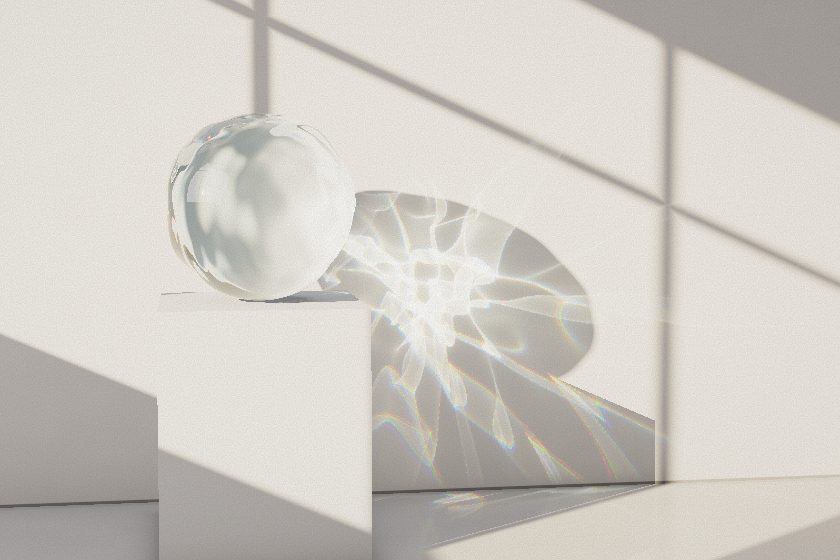
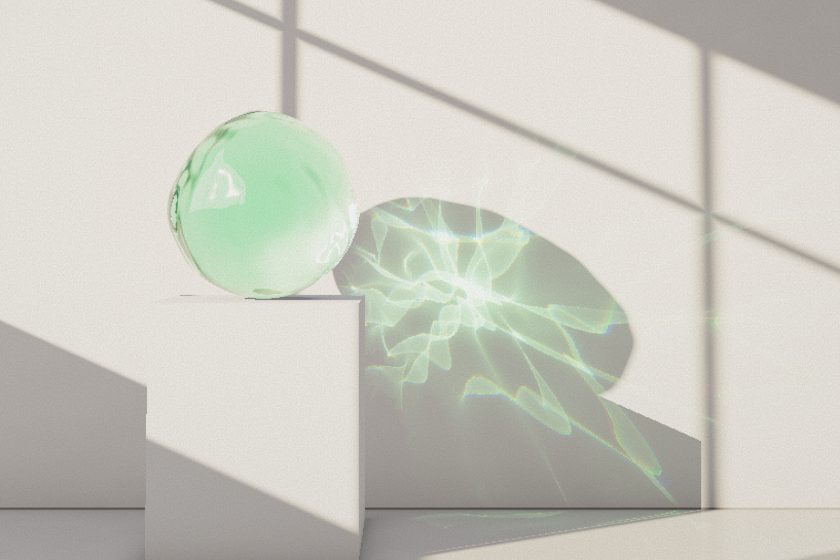
010: Start Caustic in emerald so the first view has colour

diff --git a/010/index.html b/010/index.html
@@ -403,7 +403,7 @@
           Material
         </button>
         <div class="mat-body" id="cv-mat">
-          <div class="mat-head"><span>Material</span><span data-cv-name>M_Water</span></div>
+          <div class="mat-head"><span>Material</span><span data-cv-name>M_Emerald</span></div>
           <fieldset class="row presets">
             <legend class="sr">Colour</legend>
             <label title="Clear"
@@ -412,7 +412,6 @@
                 name="cv-tint"
                 value="clear"
                 aria-label="Clear"
-                checked
                 data-cv-tint /><span class="sw" style="--a: #e4eef0; --b: #b3c4c8"></span
             ></label>
             <label title="Emerald"
@@ -421,6 +420,7 @@
                 name="cv-tint"
                 value="emerald"
                 aria-label="Emerald"
+                checked
                 data-cv-tint /><span class="sw" style="--a: #52b48a; --b: #0f4d3a"></span
             ></label>
             <label title="Amber"

diff --git a/010/main.ts b/010/main.ts
@@ -10,7 +10,7 @@ const SKETCH_MS = 1500; // the line drawing plays at least this long before the 
 const SHAPE_NAMES = ["Sphere", "Drop", "Cube"] as const;
 const SUN_AZ_DEG = [20, 56] as const; // keep in step with gallery.ts
 
-const START: Material = { shape: 0, ior: 1.33, tint: "clear", wave: 0.45, flow: 0.45, sun: 0.4 };
+const START: Material = { shape: 0, ior: 1.33, tint: "emerald", wave: 0.45, flow: 0.45, sun: 0.4 };
 const TINTS: Tint[] = ["clear", "emerald", "amber", "pink", "ink"];
 const IOR_RANGE = [1.1, 1.7] as const; // randomize stays inside this
 
